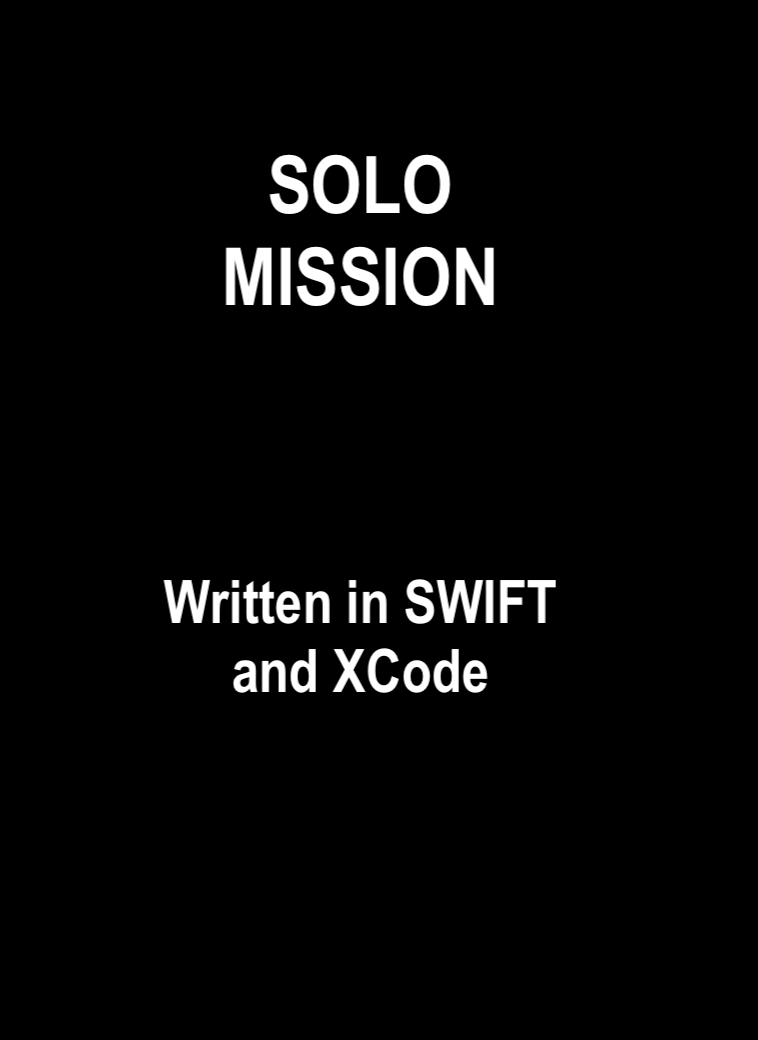
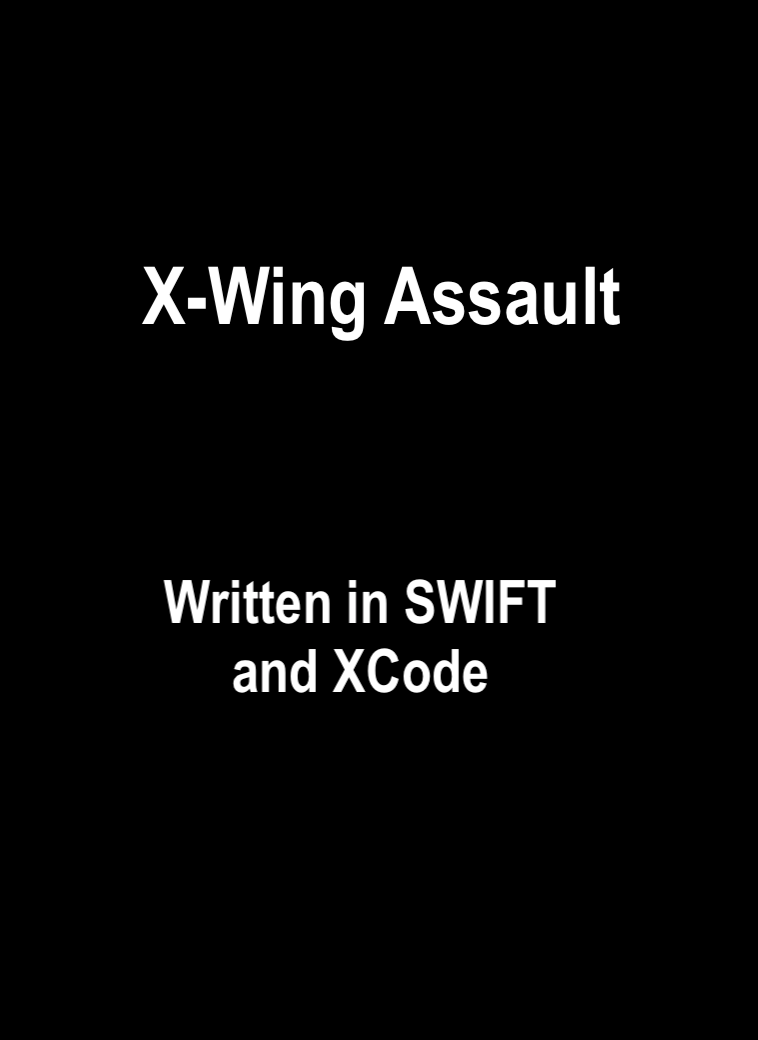
slide show for cert

Changed region(s): [[0.1821, 0.1231, 0.8193, 0.3385]]

diff --git a/portfolio.html b/portfolio.html
@@ -32,116 +32,116 @@
           
           <div class="slideshow-container"> <!-- Slideshow container start-->
           <div class="mySlides1 fade">
+            <div class="text">X-Wing Assault</div>
             <img src="./resources/images/SM.png" style="width:100%">
-              <div class="text">Solo Mission</div>
           </div>
           <div class="mySlides1 fade">
-              <img src="./resources/images/SM0.png" style="width:100%">
-                <div class="text">Solo Mission code</div>
+            <div class="text">X-Wing Assault code</div>
+            <img src="./resources/images/SM0.png" style="width:100%">
           </div>
           <div class="mySlides1 fade">
-              <img src="./resources/images/SM1.png" style="width:100%">
-                <div class="text">Solo Mission start screen</div>
+            <div class="text">X-Wing Assault start screen</div> 
+            <img src="./resources/images/SM1.png" style="width:100%">
           </div>
           <div class="mySlides1 fade">
-              <img src="./resources/images/SM2.png" style="width:100%">
-                <div class="text">Solo Mission play screen</div>
+            <div class="text">X-Wing Assault play screen</div>
+            <img src="./resources/images/SM2.png" style="width:100%">
           </div>
           <div class="mySlides1 fade">
-              <img src="./resources/images/SM3.png" style="width:100%">
-                <div class="text">Solo Mission end screen</div>
+            <div class="text">X-Wing Assault end screen</div>
+            <img src="./resources/images/SM3.png" style="width:100%">
           </div>
           <div class="mySlides1 fade">
+            <div class="text">Key Hunter</div>
             <img src="./resources/images/KH.png" style="width:100%">
-              <div class="text">Key Hunter</div>
           </div>
           <div class="mySlides1 fade">
-              <img src="./resources/images/Key1.png" style="width:100%">
-                <div class="text">Key Hunter code part 1</div>
+            <div class="text">Key Hunter code part 1</div>
+            <img src="./resources/images/Key1.png" style="width:100%">
           </div>
           <div class="mySlides1 fade">
-              <img src="./resources/images/Key2.png" style="width:100%">
-                <div class="text">Key Hunter Code part 2</div>
+            <div class="text">Key Hunter Code part 2</div>
+            <img src="./resources/images/Key2.png" style="width:100%">
           </div>
           <div class="mySlides1 fade">
-              <img src="./resources/images/Key3.png" style="width:100%">
-                <div class="text">Key Hunter game play</div>
+            <div class="text">Key Hunter game play</div>
+            <img src="./resources/images/Key3.png" style="width:100%">
           </div>
           <div class="mySlides1 fade">
+            <div class="text">Porsche 928 Workshop Manual</div>
             <img src="./resources/images/928.png" style="width:100%">
-              <div class="text">Porsche 928 Workshop Manual</div>
           </div>
           <div class="mySlides1 fade">
-              <img src="./resources/images/WSM0.png" style="width:100%">
-                <div class="text">Workshop Manual Code</div>
+            <div class="text">Workshop Manual Code</div>
+            <img src="./resources/images/WSM0.png" style="width:100%">
           </div>
           <div class="mySlides1 fade">
-              <img src="./resources/images/WSM1.png" style="width:100%">
-                <div class="text">Workshop Manual Landing Page</div>
+            <div class="text">Workshop Manual Landing Page</div>
+            <img src="./resources/images/WSM1.png" style="width:100%">
           </div>
           <div class="mySlides1 fade">
-              <img src="./resources/images/WSM3.png" style="width:100%">
-                <div class="text">Workshop Manual Content View</div>
+            <div class="text">Workshop Manual Content View</div>
+            <img src="./resources/images/WSM3.png" style="width:100%">
           </div>
           <div class="mySlides1 fade">
+            <div class="text">Stupid Ways</div>
             <img src="./resources/images/SW.png" style="width:100%">
-              <div class="text">Stupid Ways</div>
           </div>
           <div class="mySlides1 fade">
-              <img src="./resources/images/SW1.png" style="width:100%">
-                <div class="text">Stupid Ways code part 1</div>
+            <div class="text">Stupid Ways code part 1</div>
+            <img src="./resources/images/SW1.png" style="width:100%">
           </div>
           <div class="mySlides1 fade">
-              <img src="./resources/images/SW2.png" style="width:100%">
-                <div class="text">Stupid Ways code part 2</div>
+            <div class="text">Stupid Ways code part 2</div>
+            <img src="./resources/images/SW2.png" style="width:100%">
           </div>
           <div class="mySlides1 fade">
-              <img src="./resources/images/SW3.png" style="width:100%">
-                <div class="text">Stupid Ways landing game play</div>
+            <div class="text">Stupid Ways landing game play</div>
+            <img src="./resources/images/SW3.png" style="width:100%">
           </div>
           <div class="mySlides1 fade">
-              <img src="./resources/images/SW4.png" style="width:100%">
-                <div class="text">Stupid Ways game play part 2</div>
+            <div class="text">Stupid Ways game play part 2</div>
+            <img src="./resources/images/SW4.png" style="width:100%">
           </div>
           <div class="mySlides1 fade">
+            <div class="text">Evesunflower.com</div>
             <img src="./resources/images/ESF.png" style="width:100%">
-              <div class="text">Evesunflower.com</div>
           </div>
           <div class="mySlides1 fade">
-              <img src="./resources/images/ESF1.png" style="width:100%">
-                <div class="text">Evesunflower.com code</div>
+            <div class="text">Evesunflower.com code</div>
+            <img src="./resources/images/ESF1.png" style="width:100%">
           </div>
           <div class="mySlides1 fade">
-              <img src="./resources/images/ESF2.png" style="width:100%">
-                <div class="text">Evesunflower.com Events page</div>
+            <div class="text">Evesunflower.com Events page</div>
+            <img src="./resources/images/ESF2.png" style="width:100%">
           </div>
           <div class="mySlides1 fade">
-              <img src="./resources/images/ESF3.png" style="width:100%">
-                <div class="text">Evesunflower.com About page</div>
+            <div class="text">Evesunflower.com About page</div>
+            <img src="./resources/images/ESF3.png" style="width:100%">
           </div>
           <div class="mySlides1 fade">
-              <img src="./resources/images/ESF4.png" style="width:100%">
-                <div class="text">Evesunflower.com Landing page</div>
+            <div class="text">Evesunflower.com Landing page</div>
+            <img src="./resources/images/ESF4.png" style="width:100%">
           </div>
           <div class="mySlides1 fade">
+            <div class="text">Erica & District Historical Society</div>
             <img src="./resources/images/ED.png" style="width:100%">
-              <div class="text">Erica & District Historical Society</div>
           </div>
           <div class="mySlides1 fade">
-              <img src="./resources/images/EDHS1.png" style="width:100%">
-                <div class="text">Erica & District Historical Society Landing page</div>
+            <div class="text">Erica & District Historical Society Landing page</div>
+            <img src="./resources/images/EDHS1.png" style="width:100%">
           </div>
           <div class="mySlides1 fade">
-              <img src="./resources/images/EDHS2.png" style="width:100%">
-                <div class="text">Erica & District Historical Society About page</div>
+            <div class="text">Erica & District Historical Society About page</div>
+            <img src="./resources/images/EDHS2.png" style="width:100%">
           </div>
           <div class="mySlides1 fade">
-              <img src="./resources/images/EDHS3.png" style="width:100%">
-                <div class="text">Erica & District Historical Society Code</div>
+            <div class="text">Erica & District Historical Society Code</div>
+            <img src="./resources/images/EDHS3.png" style="width:100%">
           </div>
           <div class="mySlides1 fade">
-              <img src="./resources/images/EDHS4.png" style="width:100%">
-                <div class="text">Erica & District Historical Society Newsletter page</div>
+            <div class="text">Erica & District Historical Society Newsletter page</div>
+            <img src="./resources/images/EDHS4.png" style="width:100%">
           </div>
         </div> <!-- slideshow-container end-->
       <footer>

diff --git a/certificates.html b/certificates.html
@@ -17,7 +17,6 @@
         
         <a id="top"></a>
       <div class="mainbody">
-          <div class="C1">
             <div class="ph2">
               <h2>Codecademy Certificates</h2>
             </div> <!--ph2-->
@@ -25,14 +24,36 @@
               <p>Below are all the certifications I have currently recieved since enrolling in the pro courses at Codecademy.</p>
               <p>Currently I am working on the Front End Engineer Career Path.</p>
             </div> <!--paragraphs for portfolio-->
-            <img src="./resources/images/LCLine.png" alt="Command Line" style="width:100%">
-            <img src="./resources/images/LCSS.png" alt="CSS Beginer" style="width:100%">
-            <img src="./resources/images/LCSSInter.png" alt="CSS Intermediate" style="width:100%">
-            <img src="./resources/images/LHTML.png" alt="HTML" style="width:100%">
-            <img src="./resources/images/LP3.png" alt="Python3" style="width:100%">
-            <img src="./resources/images/Web.jpg" alt="Build a webpage" style="width:100%">
-            <img src="./resources/images/LJS.png" alt="Java Script" style="width:100%">
-          </div> <!--C1-->
+            <div class="slideshow-container"> <!-- Slideshow container start-->
+              <div class="mySlides2 fade">
+                <div class="text">Learn The Command Line</div>
+                <img src="./resources/images/LCLine.png" style="width:100%">
+              </div>
+              <div class="mySlides2 fade">
+                <div class="text">Learn CSS- Beginner</div>
+                <img src="./resources/images/LCSS.png" style="width:100%">
+              </div>
+              <div class="mySlides2 fade">
+                <div class="text">Learn CSS - Intermediate</div> 
+                <img src="./resources/images/LCSSInter.png" style="width:100%">
+              </div>
+              <div class="mySlides2 fade">
+                <div class="text">Learn HTML</div>
+                <img src="./resources/images/LHTML.png" style="width:100%">
+              </div>
+              <div class="mySlides2 fade">
+                <div class="text">Learn Python3</div>
+                <img src="./resources/images/LP3.png" style="width:100%">
+              </div>
+              <div class="mySlides2 fade">
+                <div class="text">Learn Build a Webpage with HTML, CSS and GitHub Pages</div>
+                <img src="./resources/images/Web.jpg" style="width:100%">
+              </div>
+              <div class="mySlides2 fade">
+                <div class="text">Learn Java Script - Beginner</div>
+                <img src="./resources/images/LJS.png" style="width:100%">
+              </div>
+            </div> <!--slideshow container end-->
           <br />
           <div class="C2">
             <div class="ph2">
@@ -59,5 +80,6 @@
         <a class="foot name">&copy; Terry Baillie 2022</a>  
       </footer> <!--footer--> 
     </div> <!--GRIDBODY-->
+    <script src="./index1.js"></script>
   </body>
  </html>

diff --git a/resources/css/portfolio.css b/resources/css/portfolio.css
@@ -76,11 +76,19 @@ html body {
 .gridbody .port em {
   color: rgb(243, 240, 30);
 }
-.gridbody .slideshow-container {
-  width: 95%;
-  margin-left: auto;
-  margin-right: auto;
+/* Slideshow container */
+.slideshow-container {
+  max-width: 1000px;
+  position: relative;
+  margin: auto;
 }
+
+/* Hide the images by default */
+.mySlides1{
+  display: none;
+  z-index: 1;
+}
+
 
 .gridbody footer a {
   margin-left: auto;
@@ -138,12 +146,6 @@ html body {
   margin-right: 4%;
 }
 
-/* Slideshow container */
-.slideshow-container {
-  max-width: 1000px;
-  position: relative;
-  margin: auto;
-}
 
 /* Hide the images by default */
 .mySlides1 {
@@ -152,13 +154,20 @@ html body {
   z-index: 1;
 }
 
+.mainbody .mySlides2 {
+  display: none;
+  padding-left: 5%;
+  z-index: 1;
+}
 
 
 /* Caption text */
 .text {
-  color: black;
-  font-size: 20px;
-  padding: 2% 5%;
+  text-align: center;
+  color: rgb(0, 14, 139);
+  font-weight: 700;
+  font-size: 2vw;
+  letter-spacing: 0.1rem;
   bottom: 8px;
   width: 100%;
 }

diff --git a/index1.js b/index1.js
@@ -4,7 +4,7 @@ showSlides();
 
 function showSlides() {
 let i;
-let slides = document.getElementsByClassName("mySlides1");
+let slides = document.getElementsByClassName("mySlides2");
   for (i = 0; i < slides.length; i++) {
   slides[i].style.display = "none"; 
 }
@@ -12,5 +12,6 @@ let slides = document.getElementsByClassName("mySlides1");
   if (slideIndex > slides.length) {slideIndex = 1} 
     slides[slideIndex-1].style.display = "block"; 
     setTimeout(showSlides, 6000); // Change image every 6 seconds
-
 }
+
+    
